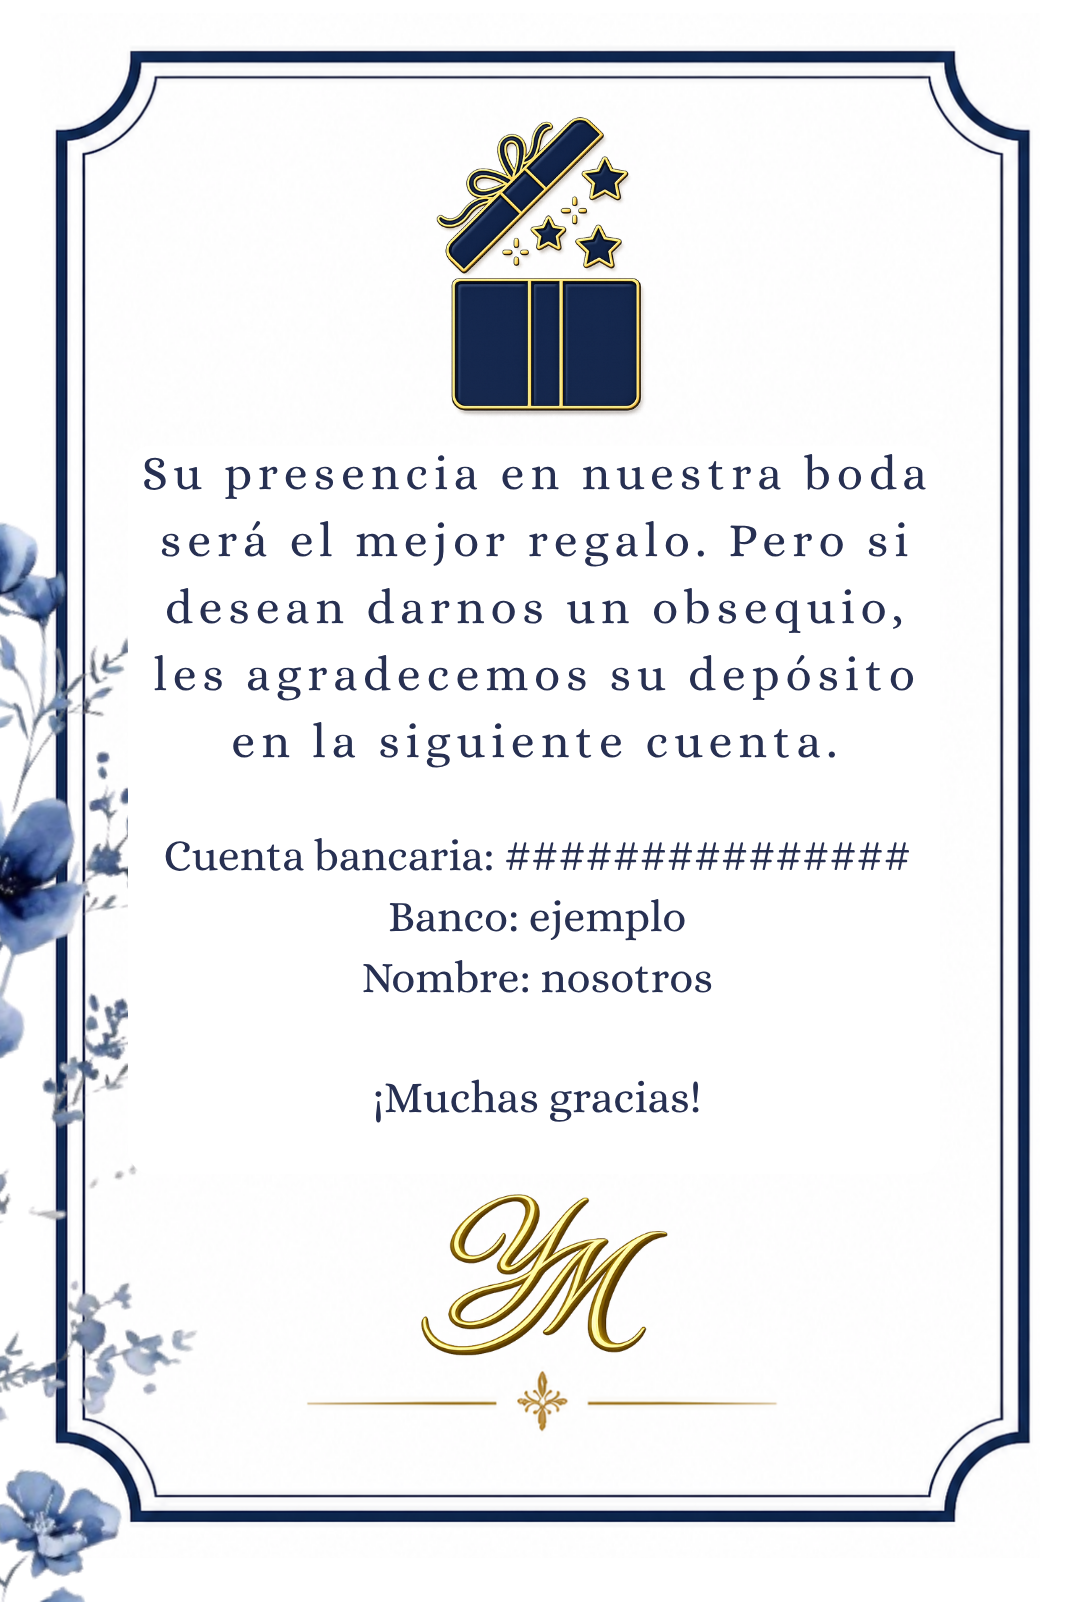
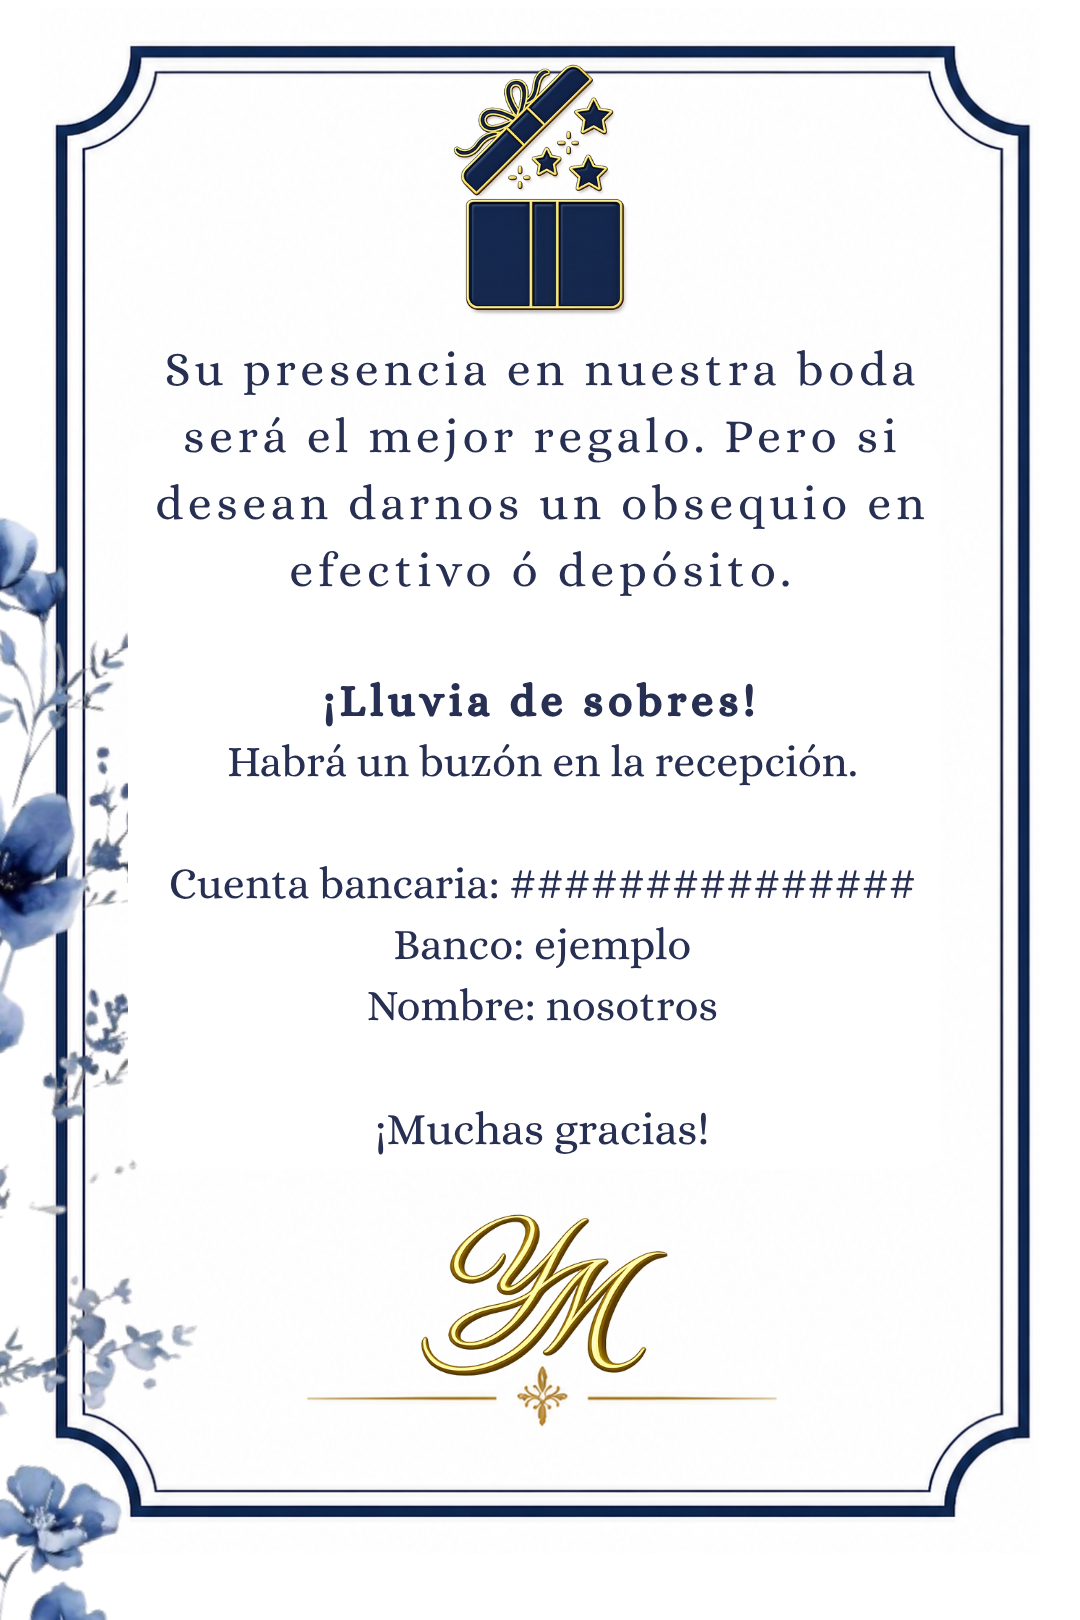
cambios en la parte de las imagenes

Changed region(s): [[0.0, 0.0, 0.9472, 0.7803], [0.0, 0.7491, 0.9472, 1.0], [0.1528, 0.5306, 0.8556, 0.7179]]

diff --git a/src/components/boda/ImageCarousel.tsx b/src/components/boda/ImageCarousel.tsx
@@ -1,0 +1,56 @@
+import { motion, AnimatePresence } from "framer-motion";
+import { useState } from "react";
+
+interface Props {
+  images: string[];
+}
+
+export default function ImageCarousel({ images }: Props) {
+  const [current, setCurrent] = useState(0);
+
+  return (
+    <div className="w-full h-auto max-w-md mx-auto">
+
+      {/* Imagen */}
+
+      <div className="relative w-full aspect-[1/1] overflow-hidden ">
+
+        <AnimatePresence initial={false}>
+
+          <motion.img
+            key={current}
+            src={images[current]}
+            alt=""
+            initial={{ opacity:0, scale:1.05 }}
+            animate={{ opacity:1, scale:1 }}
+            exit={{ opacity:0, scale:.98 }}
+            transition={{ duration: 0.8, ease: [0.22, 1, 0.36, 1] }}
+            className="absolute inset-0 w-full h-full object-cover" />
+
+        </AnimatePresence>
+
+      </div>
+
+      {/* Indicadores */}
+
+      <div className="flex justify-center gap-2 mt-4">
+
+        {images.map((_, index) => (
+
+          <button
+            key={index}
+            onClick={() => setCurrent(index)}
+            className={`transition-all duration-300 rounded-full ${
+              current === index
+                ? "w-8 h-2 bg-gold-500"
+                : "w-2 h-2 bg-navy-300"
+            }`}
+          />
+
+        ))}
+
+      </div>
+
+    </div>
+  );
+}
